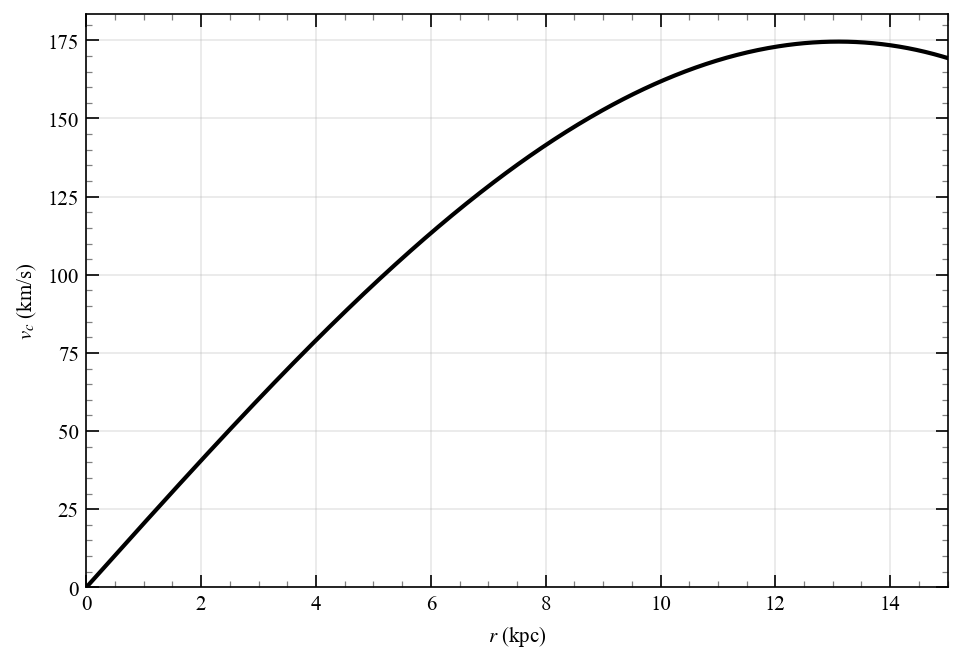
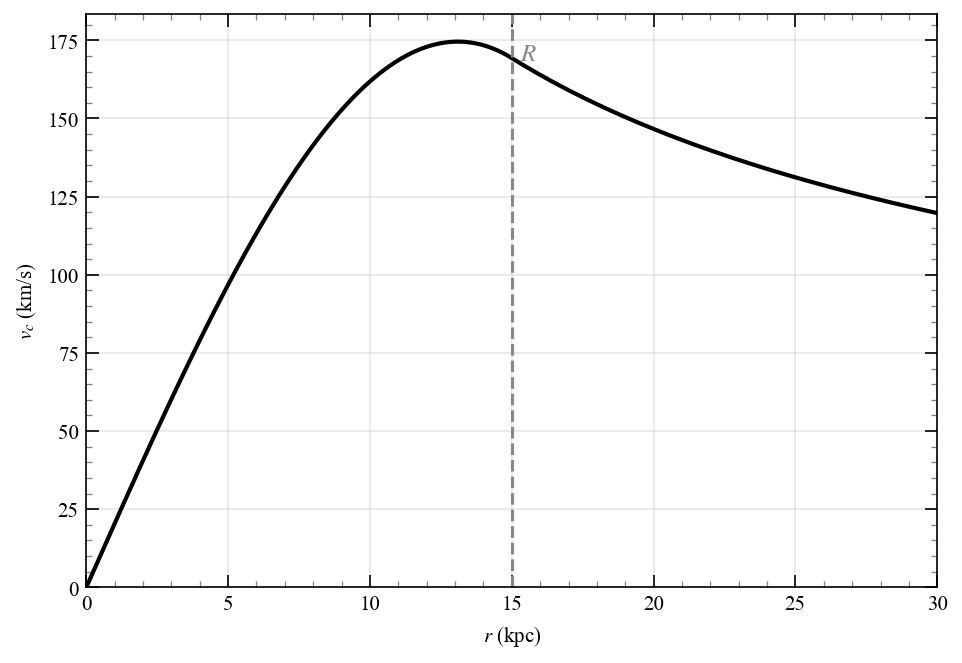
fix(fermi_gas_vcirc): added handler for r > R

diff --git a/galactic_dynamics_bovy/chapter02/fermi_gas_vcirc.py b/galactic_dynamics_bovy/chapter02/fermi_gas_vcirc.py
@@ -10,6 +10,7 @@ where k = π/R and R is the boundary radius where ρ(R) = 0.
 
 The circular velocity is:
     v_c² = (4πGρ_c/k²) * (sinc(kr) - cos(kr))  for r ≤ R
+    v_c² = GM/r                                 for r > R  (Keplerian)
 
 The total mass is:
     M = 4ρ_c R³/π
@@ -81,16 +82,27 @@ def vcirc_fermi_gas(
     ndarray
         Circular velocity in km/s.
     """
-    kr = k * r
-    # Handle r=0 case: sinc(0) - cos(0) = 1 - 1 = 0, so v_c(0) = 0
-    with np.errstate(divide="ignore", invalid="ignore"):
-        sinc_kr = np.sinc(kr / np.pi)  # np.sinc(x) = sin(πx)/(πx)
-        term = sinc_kr - np.cos(kr)
+    r = np.atleast_1d(np.asarray(r, dtype=np.float64))
+    boundary_radius = np.pi / k
+    inside = r <= boundary_radius
 
-    # v_c² = (4πGρ_c/k²) * (sinc(kr) - cos(kr))
-    vc_squared = 4 * np.pi * G * rho_c / k**2 * term
+    vc_squared = np.zeros_like(r)
+
+    # Inside boundary: v_c² = (4πGρ_c/k²) * (sinc(kr) - cos(kr))
+    if np.any(inside):
+        kr = k * r[inside]
+        with np.errstate(divide="ignore", invalid="ignore"):
+            sinc_kr = np.sinc(kr / np.pi)  # np.sinc(x) = sin(πx)/(πx)
+            term = sinc_kr - np.cos(kr)
+        vc_squared[inside] = 4 * np.pi * G * rho_c / k**2 * term
+
+    # Outside boundary: v_c² = GM/r (Keplerian)
+    # Total mass M = 4π²ρ_c/k³
+    if np.any(~inside):
+        total_mass = 4 * np.pi**2 * rho_c / k**3
+        vc_squared[~inside] = G * total_mass / r[~inside]
+
     vc_squared = np.maximum(vc_squared, 0)  # Ensure non-negative
-
     return np.sqrt(vc_squared)
 
 
@@ -111,8 +123,9 @@ def plot_fermi_gas_vcirc(*, path: Path | None = None) -> None:
 
     rho_c, k = get_fermi_gas_params(total_mass, boundary_radius)
 
-    # Radius grid from 0 to R
-    r = np.linspace(0, boundary_radius, 500)
+    # Radius grid extending beyond R to show Keplerian falloff
+    r_max = 2.0 * boundary_radius
+    r = np.linspace(0, r_max, 500)
     vc = vcirc_fermi_gas(r, rho_c, k, units.G_kms)
 
     fig: Figure
@@ -121,10 +134,23 @@ def plot_fermi_gas_vcirc(*, path: Path | None = None) -> None:
 
     ax.plot(r, vc, "-", color="#000000", linewidth=2)
 
+    # Vertical marker at r=R
+    ax.axvline(x=boundary_radius, color="#888888", linestyle="--", linewidth=1.5)
+
     ax.set_xlabel(r"$r$ (kpc)")
     ax.set_ylabel(r"$v_c$ (km/s)")
-    ax.set_xlim(0, boundary_radius)
+    ax.set_xlim(0, r_max)
     ax.set_ylim(0, None)
+
+    # Add label for R (after ylim is auto-set)
+    ylim = ax.get_ylim()
+    ax.text(
+        boundary_radius + 0.3,
+        ylim[1] * 0.92,
+        r"$R$",
+        fontsize=12,
+        color="#888888",
+    )
 
     ax.xaxis.set_minor_locator(AutoMinorLocator())
     ax.yaxis.set_minor_locator(AutoMinorLocator())

diff --git a/tests/unit/galactic_dynamics_bovy/chapter02/test_fermi_gas_vcirc.py b/tests/unit/galactic_dynamics_bovy/chapter02/test_fermi_gas_vcirc.py
@@ -92,6 +92,50 @@ class TestVcircFermiGas:
         assert len(vc) == 100
         assert all(np.isfinite(vc))
 
+    def test_keplerian_outside_boundary(self) -> None:
+        """Velocity should follow Keplerian falloff outside boundary."""
+        units = GalacticUnits()
+        boundary_radius = 15.0
+        total_mass = 10.0
+        rho_c, k = get_fermi_gas_params(total_mass, boundary_radius)
+
+        # Test at r > R
+        r = np.array([20.0, 30.0])
+        vc = vcirc_fermi_gas(r, rho_c, k, units.G_kms)
+
+        # v_c² = GM/r, so v_c(r1)/v_c(r2) = sqrt(r2/r1)
+        expected_ratio = np.sqrt(r[1] / r[0])
+        assert np.isclose(vc[0] / vc[1], expected_ratio)
+
+    def test_continuous_at_boundary(self) -> None:
+        """Velocity should be continuous at r=R."""
+        units = GalacticUnits()
+        boundary_radius = 15.0
+        rho_c, k = get_fermi_gas_params(10.0, boundary_radius)
+
+        # Just inside and just outside the boundary
+        eps = 1e-6
+        r_inside = np.array([boundary_radius - eps])
+        r_outside = np.array([boundary_radius + eps])
+
+        vc_inside = vcirc_fermi_gas(r_inside, rho_c, k, units.G_kms)
+        vc_outside = vcirc_fermi_gas(r_outside, rho_c, k, units.G_kms)
+
+        assert np.isclose(vc_inside[0], vc_outside[0], rtol=1e-4)
+
+    def test_mixed_inside_outside(self) -> None:
+        """Should handle array with both inside and outside points."""
+        units = GalacticUnits()
+        boundary_radius = 15.0
+        rho_c, k = get_fermi_gas_params(10.0, boundary_radius)
+
+        r = np.array([5.0, 10.0, 20.0, 30.0])  # 2 inside, 2 outside
+        vc = vcirc_fermi_gas(r, rho_c, k, units.G_kms)
+
+        assert len(vc) == 4
+        assert all(vc > 0)
+        assert all(np.isfinite(vc))
+
 
 class TestPlotFermiGasVcirc:
     """Tests for plot_fermi_gas_vcirc function."""

diff --git a/docs/chapter02.2.md b/docs/chapter02.2.md
@@ -162,7 +162,7 @@ $$
 
 ![Fermi gas circular velocity](assets/generated/fermi_gas_vcirc.png)
 
-*Figure 2.13: Circular velocity profile of the Fermi gas model with $R=15kp$ and $M=10^{11}M_\odot$.*
+*Figure 2.13: Circular velocity profile of the Fermi gas model with $R=15\, \mathrm{kpc}$ and $M=10^{11}\, \mathrm{M}_\odot$.*
 
 
 Script to generate figure:
@@ -171,3 +171,5 @@ Script to generate figure:
 from galactic_dynamics_bovy.chapter02.fermi_gas_vcirc import plot_fermi_gas_vcirc
 plot_fermi_gas_vcirc()
 ```
+
+Note that for $r > R$ the circular velocity is simply $v_c^2 = GM/r$.

diff --git a/docs/chapter03.1.md b/docs/chapter03.1.md
@@ -1,0 +1,6 @@
+# Chapter 3: Elements of Classical Mechanics
+
+<!-- ======================= -->
+<!-- PROBLEM 3.1             -->
+<!-- ======================= -->
+## Problem 3.1
